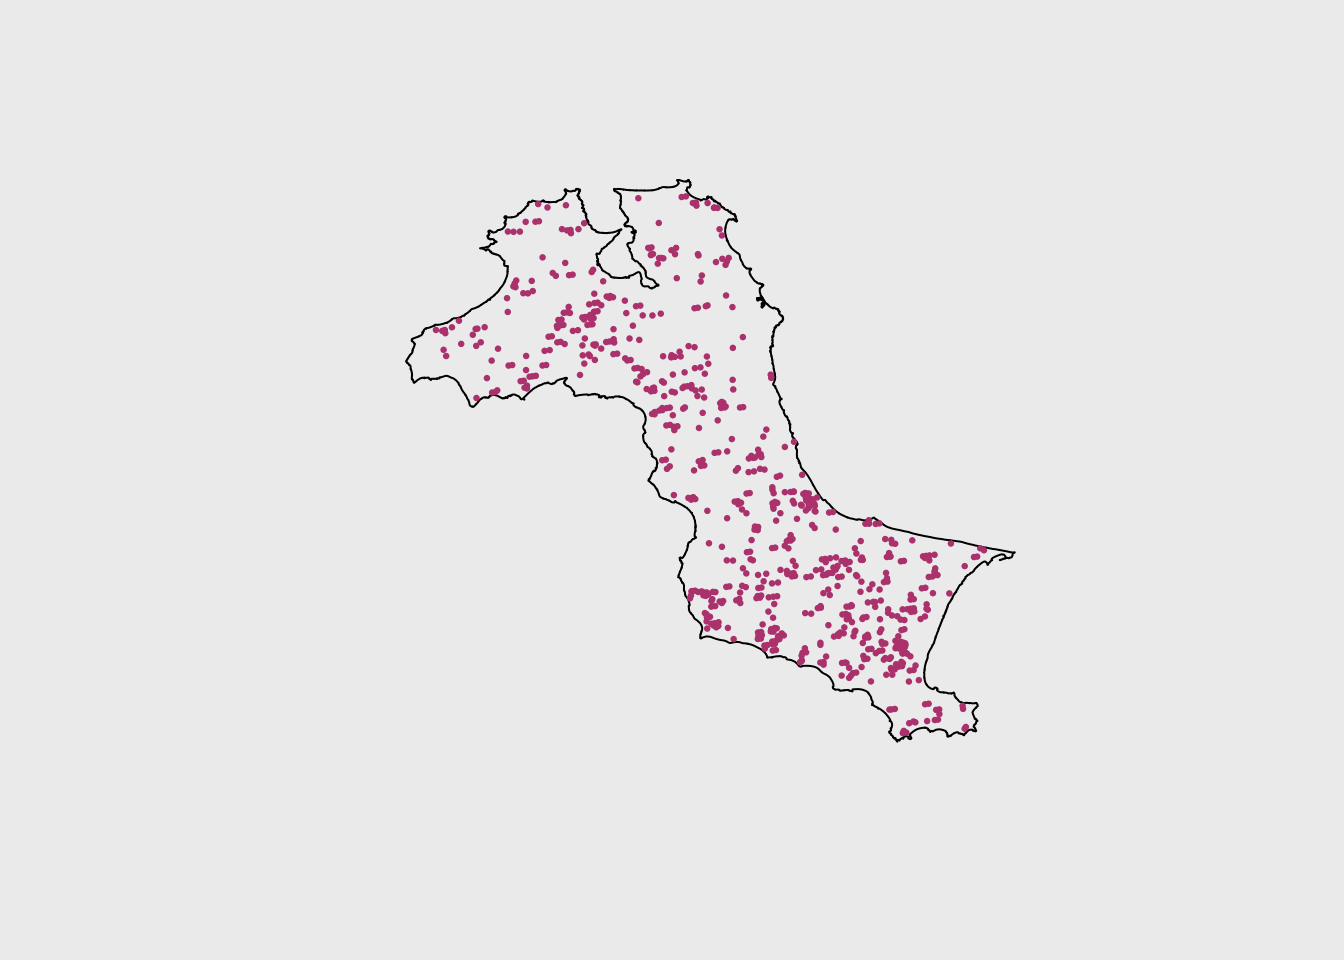
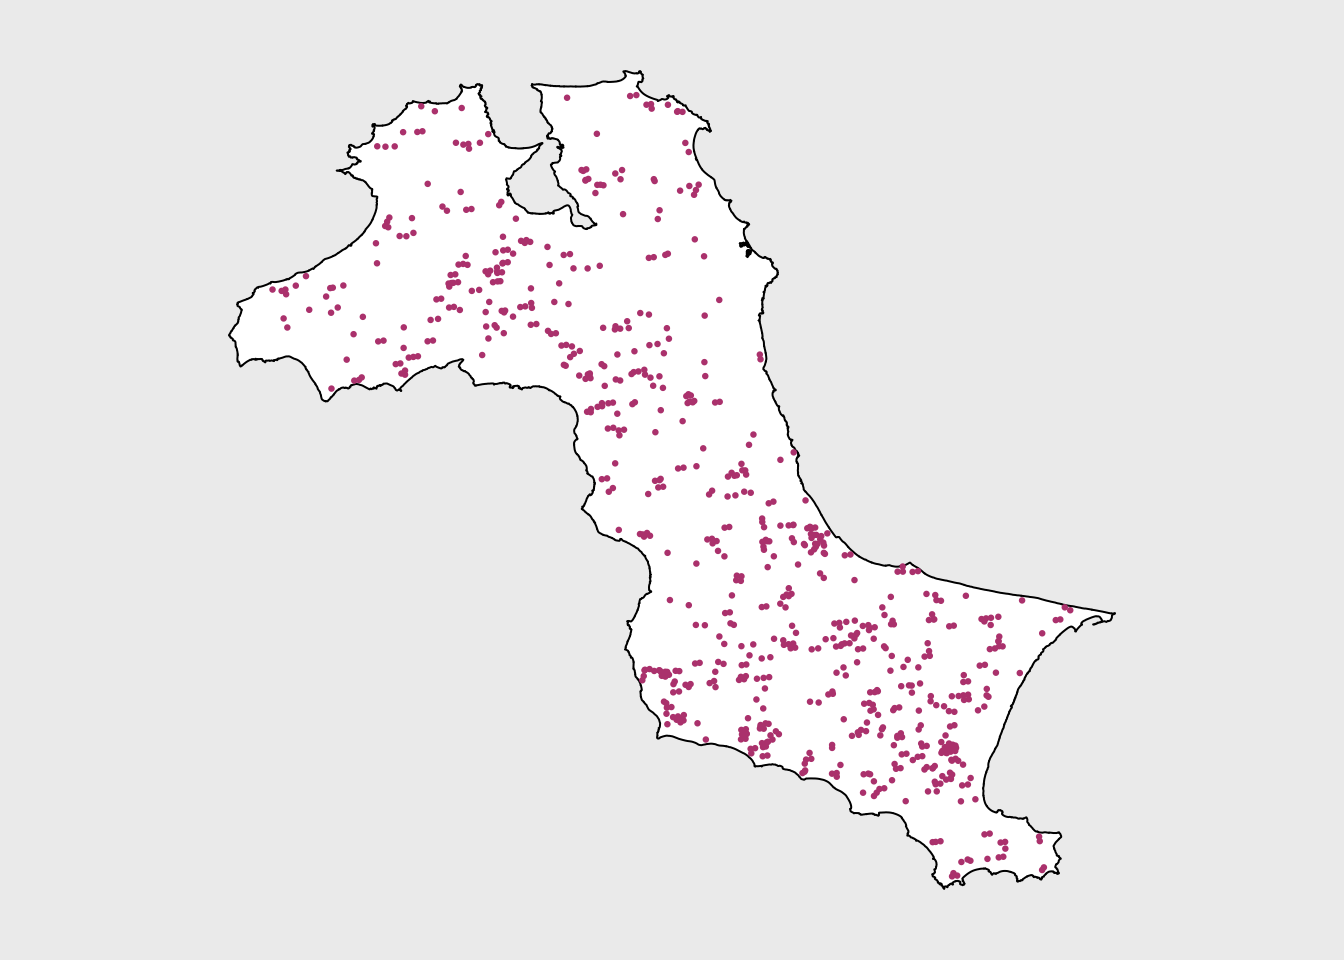
commit0910v2
color update

diff --git a/_site/Hands-on_Ex/Hands-on_Ex03/Hands-on_Ex03.html b/_site/Hands-on_Ex/Hands-on_Ex03/Hands-on_Ex03.html
@@ -316,7 +316,7 @@ pre > code.sourceCode > span > a:first-child::before { text-decoration: underlin
 <div class="cell-output cell-output-stdout">
 <pre><code>
 The downloaded binary packages are in
-    /var/folders/zr/rjd69mws5mz_fncmw5z7njtw0000gn/T//RtmpOyb6Zg/downloaded_packages</code></pre>
+    /var/folders/zr/rjd69mws5mz_fncmw5z7njtw0000gn/T//RtmpqUtHQD/downloaded_packages</code></pre>
 </div>
 </div>
 </section>
@@ -392,8 +392,8 @@ enclosing rectangle: [512066.8, 705559.4] x [9655398, 9834006] units</code></pre
 <div class="tab-content">
 <div id="tabset-1-1" class="tab-pane active" role="tabpanel" aria-labelledby="tabset-1-1-tab">
 <div class="cell" data-layout-align="center">
-<div class="sourceCode cell-code" id="cb11"><pre class="sourceCode r code-with-copy"><code class="sourceCode r"><span id="cb11-1"><a href="#cb11-1" aria-hidden="true" tabindex="-1"></a><span class="fu">par</span>(<span class="at">bg =</span> <span class="st">"#EEEEEE"</span>)</span>
-<span id="cb11-2"><a href="#cb11-2" aria-hidden="true" tabindex="-1"></a><span class="fu">plot</span>(<span class="fu">st_geometry</span>(kbb_sf))</span>
+<div class="sourceCode cell-code" id="cb11"><pre class="sourceCode r code-with-copy"><code class="sourceCode r"><span id="cb11-1"><a href="#cb11-1" aria-hidden="true" tabindex="-1"></a><span class="fu">par</span>(<span class="at">bg =</span> <span class="st">"#EEEEEE"</span>, <span class="at">mar =</span> <span class="fu">c</span>(<span class="dv">1</span>, <span class="dv">1</span>, <span class="dv">1</span>, <span class="dv">1</span>))</span>
+<span id="cb11-2"><a href="#cb11-2" aria-hidden="true" tabindex="-1"></a><span class="fu">plot</span>(<span class="fu">st_geometry</span>(kbb_sf), <span class="at">col =</span> <span class="st">"white"</span>)</span>
 <span id="cb11-3"><a href="#cb11-3" aria-hidden="true" tabindex="-1"></a><span class="fu">plot</span>(<span class="fu">st_geometry</span>(fire_sf), <span class="at">add =</span> <span class="cn">TRUE</span>, <span class="at">col =</span> <span class="st">"#BA487F"</span>, <span class="at">pch =</span> <span class="dv">16</span>, <span class="at">cex =</span> <span class="fl">0.45</span>)</span></code><button title="Copy to Clipboard" class="code-copy-button"><i class="bi"></i></button></pre></div>
 <div class="cell-output-display">
 <div class="quarto-figure quarto-figure-center">
@@ -435,9 +435,9 @@ enclosing rectangle: [512066.8, 705559.4] x [9655398, 9834006] units</code></pre
 <div class="cell" data-layout-align="center">
 <div class="sourceCode cell-code" id="cb13"><pre class="sourceCode r code-with-copy"><code class="sourceCode r"><span id="cb13-1"><a href="#cb13-1" aria-hidden="true" tabindex="-1"></a><span class="fu">tmap_options</span>(<span class="at">bg.color =</span> <span class="st">"#EEEEEE"</span>)</span>
 <span id="cb13-2"><a href="#cb13-2" aria-hidden="true" tabindex="-1"></a><span class="fu">tm_shape</span>(kbb_sf)<span class="sc">+</span></span>
-<span id="cb13-3"><a href="#cb13-3" aria-hidden="true" tabindex="-1"></a>  <span class="fu">tm_polygons</span>() <span class="sc">+</span></span>
+<span id="cb13-3"><a href="#cb13-3" aria-hidden="true" tabindex="-1"></a>  <span class="fu">tm_polygons</span>(<span class="at">fill =</span> <span class="st">"#A8BBA3"</span>) <span class="sc">+</span></span>
 <span id="cb13-4"><a href="#cb13-4" aria-hidden="true" tabindex="-1"></a><span class="fu">tm_shape</span>(fire_sf) <span class="sc">+</span></span>
-<span id="cb13-5"><a href="#cb13-5" aria-hidden="true" tabindex="-1"></a>  <span class="fu">tm_dots</span>() <span class="sc">+</span></span>
+<span id="cb13-5"><a href="#cb13-5" aria-hidden="true" tabindex="-1"></a>  <span class="fu">tm_dots</span>(<span class="at">fill =</span> <span class="st">"#D25D5D"</span>, <span class="at">size =</span> <span class="fl">0.2</span>) <span class="sc">+</span></span>
 <span id="cb13-6"><a href="#cb13-6" aria-hidden="true" tabindex="-1"></a>  <span class="fu">tm_facets</span>(<span class="at">by =</span> <span class="st">"Month_fac"</span>,</span>
 <span id="cb13-7"><a href="#cb13-7" aria-hidden="true" tabindex="-1"></a>            <span class="at">nrow =</span> <span class="dv">3</span>, <span class="at">ncols =</span> <span class="dv">4</span>,</span>
 <span id="cb13-8"><a href="#cb13-8" aria-hidden="true" tabindex="-1"></a>            <span class="at">free.coords =</span> <span class="cn">FALSE</span>, <span class="at">drop.units =</span> <span class="cn">TRUE</span>) </span></code><button title="Copy to Clipboard" class="code-copy-button"><i class="bi"></i></button></pre></div>
